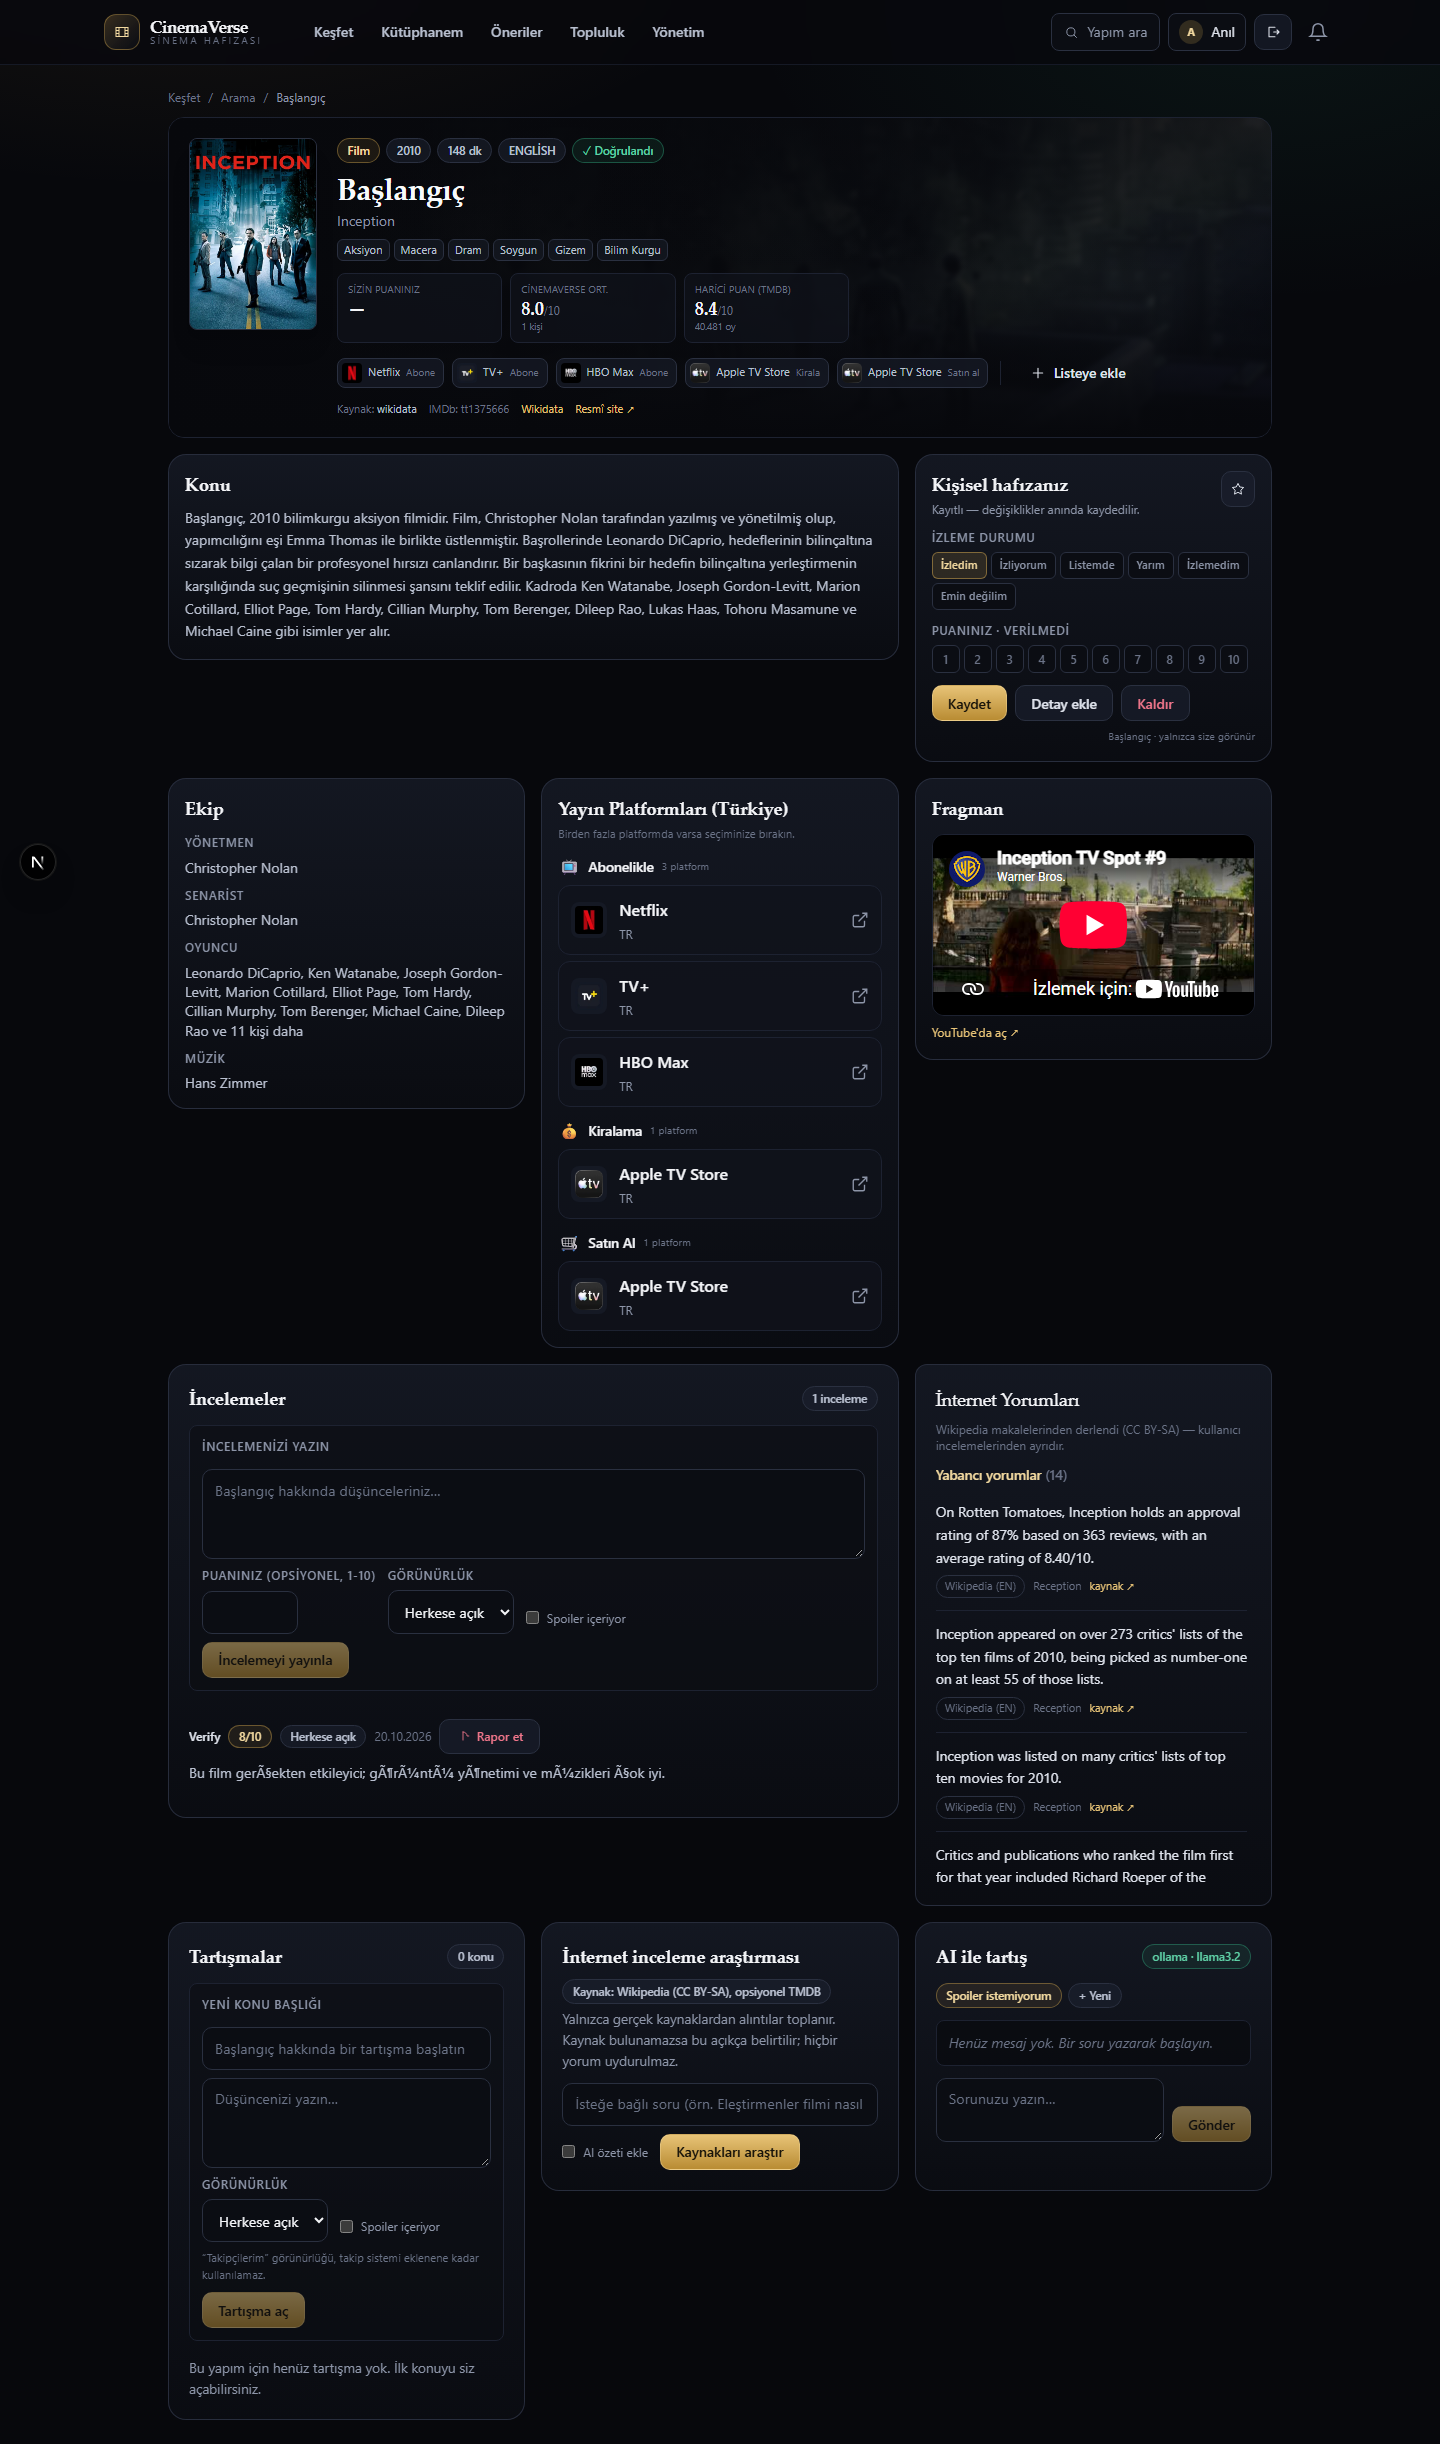
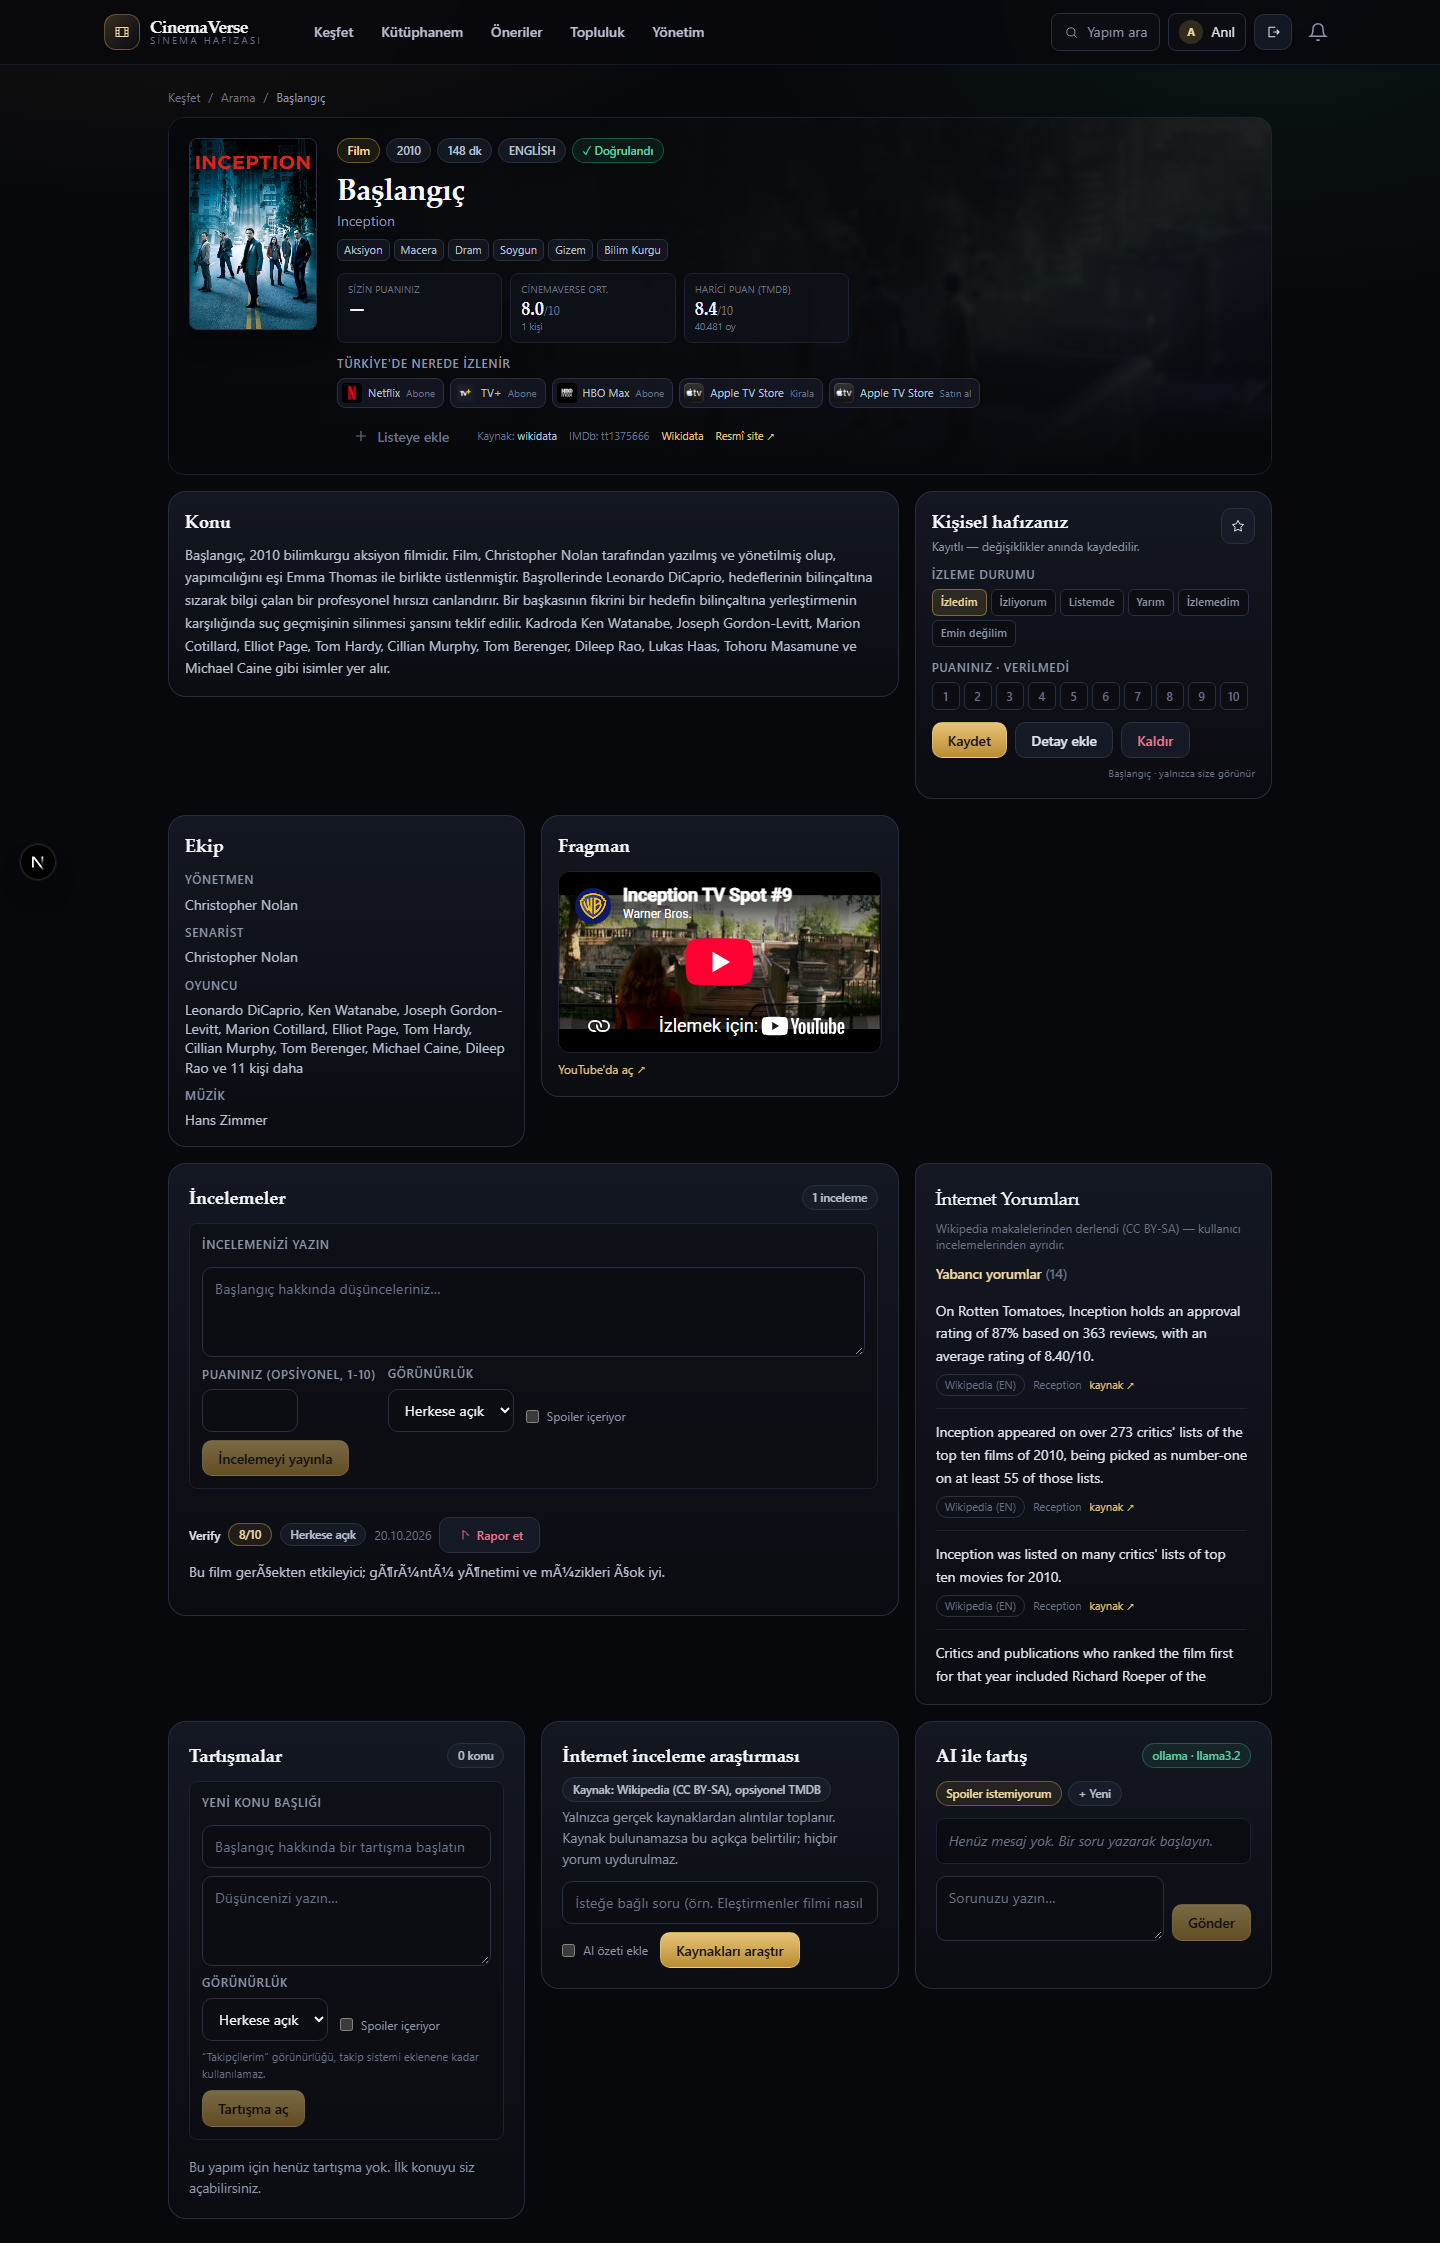
Yayin platformlari tek yerde: hero'da tum platformlar gosteriliyor, alttaki tekrar eden kart kaldirildi

diff --git a/src/app/title/[id]/title-hero.tsx b/src/app/title/[id]/title-hero.tsx
@@ -66,8 +66,6 @@ export function TitleHero({
     if (d !== 0) return d;
     return a.displayPriority - b.displayPriority;
   });
-  const primaryProviders = sortedProviders.slice(0, 5);
-  const extraProviders = sortedProviders.length - primaryProviders.length;
 
   return (
     <section className="relative overflow-hidden rounded-2xl border border-ink-700 bg-ink-900">
@@ -201,64 +199,55 @@ export function TitleHero({
             />
           </div>
 
-          {/* Platformlar + aksiyonlar */}
-          <div className="mt-3 flex flex-wrap items-center gap-2">
-            {primaryProviders.map((provider) => {
-              const meta = MONETIZATION_LABELS[provider.monetizationType];
-              return (
-                <a
-                  key={`${provider.providerId}-${provider.monetizationType}`}
-                  href={provider.link ?? "#"}
-                  target="_blank"
-                  rel="noopener noreferrer"
-                  title={`${provider.name} - ${meta.label}`}
-                  className="group flex items-center gap-1.5 rounded-lg border border-ink-600 bg-ink-800/80 py-1 pl-1 pr-2 transition-colors hover:border-gold-500/50"
-                >
-                  {provider.logoPath ? (
-                    <Image
-                      src={`https://image.tmdb.org/t/p/w92${provider.logoPath}`}
-                      alt=""
-                      width={20}
-                      height={20}
-                      className="h-5 w-5 rounded object-contain"
-                      unoptimized
-                    />
-                  ) : (
-                    <span className="grid h-5 w-5 place-items-center text-[0.6rem] text-mist-400">
-                      {provider.name.slice(0, 1)}
-                    </span>
-                  )}
-                  <span className="text-[0.7rem] text-mist-300 group-hover:text-mist-100">
-                    {provider.name}
-                  </span>
-                  <span className="text-[0.62rem] text-mist-500">
-                    {meta.short}
-                  </span>
-                </a>
-              );
-            })}
-            {extraProviders > 0 && (
-              <span
-                className="rounded-lg border border-ink-700 bg-ink-800/60 px-2 py-1 text-[0.7rem] text-mist-400"
-                title={sortedProviders
-                  .slice(5)
-                  .map((p) => `${p.name} (${MONETIZATION_LABELS[p.monetizationType].short})`)
-                  .join(", ")}
-              >
-                +{extraProviders} platform
-              </span>
-            )}
+          {/* Yayin platformlari - hepsi burada, tek yerde */}
+          {sortedProviders.length > 0 ? (
+            <div className="mt-3">
+              <p className="label">Türkiye'de nerede izlenir</p>
+              <div className="mt-1 flex flex-wrap gap-1.5">
+                {sortedProviders.map((provider) => {
+                  const meta = MONETIZATION_LABELS[provider.monetizationType];
+                  return (
+                    <a
+                      key={`${provider.providerId}-${provider.monetizationType}`}
+                      href={provider.link ?? "#"}
+                      target="_blank"
+                      rel="noopener noreferrer"
+                      title={`${provider.name} — ${meta.label}${
+                        provider.quality ? ` (${provider.quality.toUpperCase()})` : ""
+                      }`}
+                      className="group flex items-center gap-1.5 rounded-lg border border-ink-600 bg-ink-800/80 py-1 pl-1 pr-2 transition-colors hover:border-gold-500/50"
+                    >
+                      {provider.logoPath ? (
+                        <Image
+                          src={`https://image.tmdb.org/t/p/w92${provider.logoPath}`}
+                          alt=""
+                          width={20}
+                          height={20}
+                          className="h-5 w-5 rounded object-contain"
+                          unoptimized
+                        />
+                      ) : (
+                        <span className="grid h-5 w-5 place-items-center text-[0.6rem] text-mist-400">
+                          {provider.name.slice(0, 1)}
+                        </span>
+                      )}
+                      <span className="text-[0.7rem] leading-none text-mist-300 group-hover:text-mist-100">
+                        {provider.name}
+                      </span>
+                      <span className="text-[0.62rem] leading-none text-mist-500">
+                        {meta.short}
+                      </span>
+                    </a>
+                  );
+                })}
+              </div>
+            </div>
+          ) : null}
 
-            <span className="mx-1 hidden h-6 w-px bg-ink-700 sm:block" />
+          {/* Aksiyonlar + kaynak linkleri */}
+          <div className="mt-2.5 flex flex-wrap items-center gap-x-3 gap-y-1.5 text-[0.68rem] text-mist-500">
+            <AddToListButton titleId={title.id} userId={userId} />
 
-            <AddToListButton
-              titleId={title.id}
-              userId={userId}
-            />
-          </div>
-
-          {/* Kaynak linkleri */}
-          <div className="mt-2.5 flex flex-wrap items-center gap-x-3 gap-y-1 text-[0.68rem] text-mist-500">
             {title.metadataProvider && (
               <span>
                 Kaynak:{" "}

diff --git a/tests/e2e/title-page.spec.ts b/tests/e2e/title-page.spec.ts
@@ -33,11 +33,7 @@ test.describe("Yapım Sayfası - Bento Grid", () => {
     ).toHaveCount(0);
 
     // Ana bölümler görünür olmalı
-    for (const heading of [
-      "Konu",
-      "Kişisel hafızanız",
-      "Yayın Platformları (Türkiye)",
-    ]) {
+    for (const heading of ["Konu", "Kişisel hafızanız", "Ekip", "Fragman"]) {
       await expect(
         page.locator(`h2:has-text("${heading}"), h3:has-text("${heading}")`).first()
       ).toBeVisible({ timeout: 10000 });
@@ -68,17 +64,20 @@ test.describe("Yapım Sayfası - Bento Grid", () => {
     }
   });
 
-  test("Yayın platformları hero'da ve kartta görünür", async ({ page }) => {
+  test("Yayın platformları sadece hero'da, tekrar yok", async ({ page }) => {
     const hero = page.locator("main > section").first();
     const heroText = await hero.innerText();
-    const hasPlatformHint =
-      /Netflix|Disney|Amazon|HBO Max|Apple TV|Exxen|Blutv/i.test(heroText) ||
-      /\+\d+\s*platform/i.test(heroText);
-    expect(hasPlatformHint).toBeTruthy();
+    expect(heroText.toLocaleLowerCase("tr")).toContain("nerede izlenir");
 
-    await expect(
-      page.locator('h2:has-text("Yayın Platformları")').first()
-    ).toBeVisible({ timeout: 10000 });
+    // Grid icinde ayri bir platform karti OLMAMALI (tekrar yok)
+    const gridCards = await page.evaluate(() => {
+      return [...document.querySelectorAll("main .surface")].map(
+        (el) => el.querySelector("h2, h3")?.textContent?.trim() ?? ""
+      );
+    });
+    expect(
+      gridCards.some((t) => t.includes("Yayın Platformları"))
+    ).toBeFalsy();
   });
 
   test("Kişisel hafıza kompakt - detaylar gizli başlar", async ({ page }) => {

diff --git a/src/app/title/[id]/page.tsx b/src/app/title/[id]/page.tsx
@@ -8,7 +8,6 @@ import { ResearchPanel } from "@/components/research/research-panel";
 import { AiDiscussion } from "@/components/ai/ai-discussion";
 import { ReviewPanel } from "@/components/community/review-panel";
 import { ThreadList } from "@/components/community/thread-list";
-import { WatchProviders } from "@/components/catalog/watch-providers";
 import { loadTitlePageData } from "@/lib/catalog/page-data";
 import { getCurrentUser } from "@/lib/auth/current-user";
 import { getAiStatus } from "@/lib/ai/provider";
@@ -18,7 +17,7 @@ import { listReviewsForTitle } from "@/lib/community/reviews";
 import { listExternalComments } from "@/lib/community/external-comments";
 import { listThreads } from "@/lib/community/discussions";
 import { getFranchisesForTitle } from "@/lib/community/franchises";
-import { getWatchProviders, groupWatchProviders } from "@/lib/watch-providers/service";
+import { getWatchProviders } from "@/lib/watch-providers/service";
 import { TitleHero } from "./title-hero";
 import ExternalCommentsSection from "./external-comments-section";
 import TrailerSection from "./trailer-section";
@@ -250,12 +249,6 @@ export default async function TitlePage({
               </div>
             </section>
           ) : null}
-
-          {/* Yayın platformları */}
-          <WatchProviders
-            titleId={title.id}
-            initialProviders={groupWatchProviders(providers)}
-          />
 
           {/* Fragman */}
           {title.trailerUrl ? (
